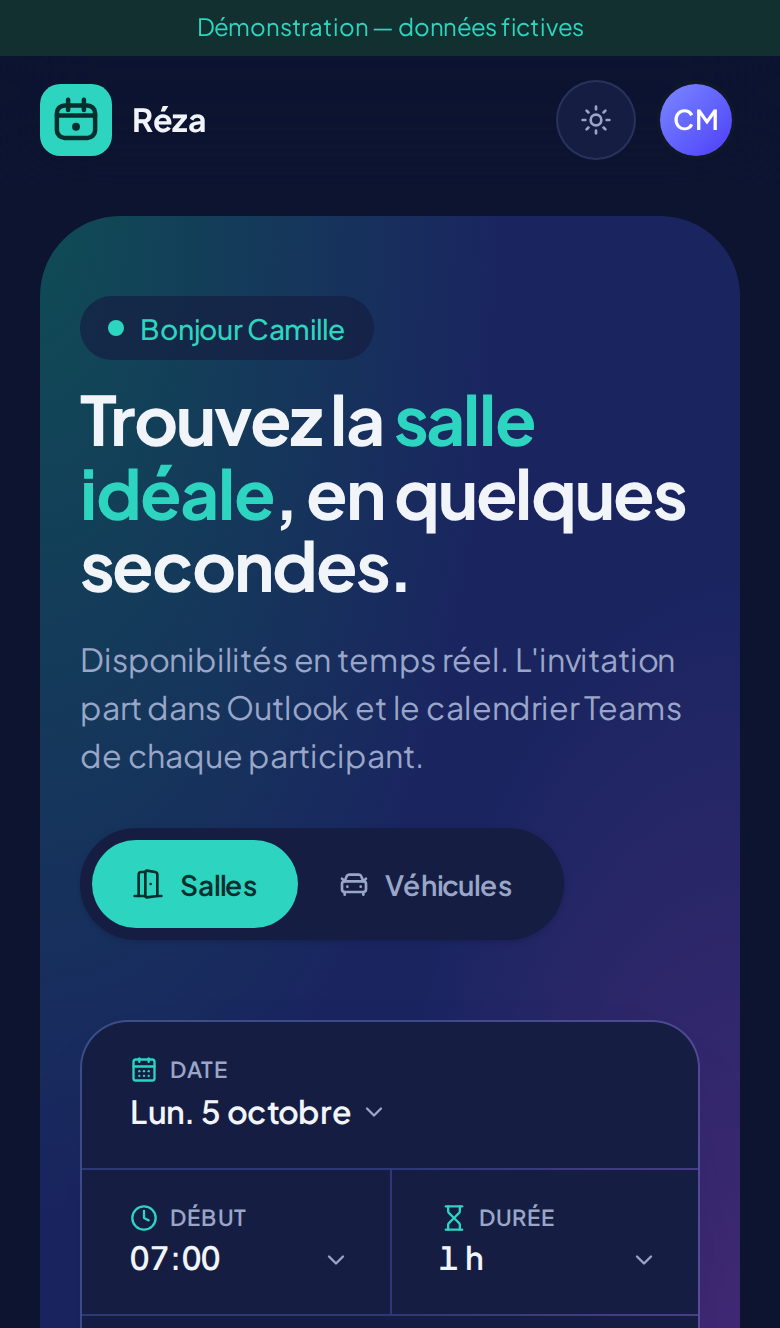
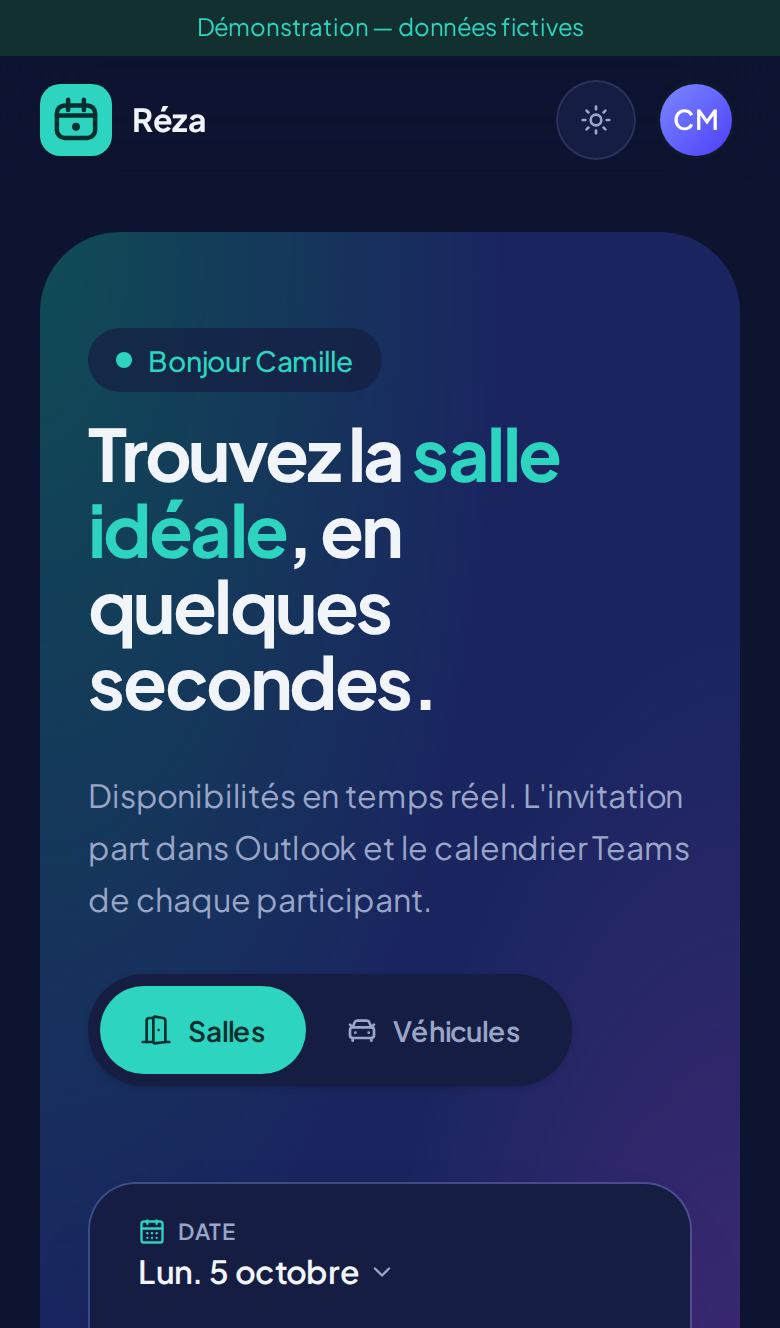
Mise en page plus aérée : grandes cartes sur deux colonnes, espacements généreux, menu épuré
Claude-Session: https://claude.ai/code/session_01WAkih85MUC11PcespeCzAg

Changed region(s): [[0.0923, 0.2161, 0.9231, 1.0], [0.0615, 0.1544, 0.9231, 0.2161], [0.9231, 0.1852, 0.9538, 0.2161]]

diff --git a/src/pages/BookPage.tsx b/src/pages/BookPage.tsx
@@ -22,9 +22,8 @@ export function BookPage() {
 
   return (
     <>
-      <section className="relative overflow-hidden hero rounded-[2.5rem] px-5 pt-10 pb-6 sm:px-12 sm:pt-16 sm:pb-12">
-        <HeroDecor />
-        <div className="relative flex flex-col gap-6 lg:flex-row lg:items-end lg:justify-between">
+      <section className="relative overflow-hidden hero rounded-[2.5rem] px-6 pt-12 pb-8 sm:px-14 sm:pt-20 sm:pb-14">
+                <div className="relative flex flex-col gap-6 lg:flex-row lg:items-end lg:justify-between">
           <div className="max-w-2xl">
             {me && (
               <p className="mb-3 inline-flex items-center gap-2 rounded-full bg-surface/70 px-3.5 py-1.5 text-sm font-medium text-brand-700">
@@ -32,7 +31,7 @@ export function BookPage() {
                 Bonjour {me.givenName ?? me.name.split(" ")[0]}
               </p>
             )}
-            <h1 className="text-[34px] leading-[1.08] font-bold tracking-[-0.03em] sm:text-[52px]">
+            <h1 className="text-[32px] leading-[1.08] font-bold tracking-[-0.035em] sm:text-[60px]">
               {kind === "room" ? (
                 <>
                   Trouvez la <span className="text-brand-600">salle idéale</span>,<br className="hidden sm:block" /> en quelques secondes.
@@ -43,32 +42,21 @@ export function BookPage() {
                 </>
               )}
             </h1>
-            <p className="mt-4 max-w-xl text-base text-muted sm:text-lg">
+            <p className="mt-6 max-w-xl text-base leading-relaxed text-muted sm:text-lg">
               Disponibilités en temps réel. L'invitation part dans Outlook et le calendrier Teams de chaque participant.
             </p>
           </div>
           <KindToggle value={kind} onChange={setKind} />
         </div>
-        <div className="relative mt-10">
+        <div className="relative mt-12 sm:mt-16">
           <SearchBar />
         </div>
       </section>
-      <div className="mt-8">
+      <div className="mt-14">
         <FilterChips resources={resources} onlyFree={onlyFree} setOnlyFree={setOnlyFree} />
       </div>
       <Results onlyFree={onlyFree} resetOnlyFree={() => setOnlyFree(false)} />
     </>
-  );
-}
-
-/** Formes douces en arrière-plan du bandeau d'accueil. */
-function HeroDecor() {
-  return (
-    <svg className="pointer-events-none absolute -top-24 -right-24 hidden h-[420px] sm:block w-[420px] text-brand-500 opacity-[0.14]" viewBox="0 0 200 200" aria-hidden>
-      <circle cx="100" cy="100" r="96" fill="none" stroke="currentColor" strokeWidth="1" />
-      <circle cx="100" cy="100" r="70" fill="none" stroke="currentColor" strokeWidth="1" />
-      <circle cx="100" cy="100" r="44" fill="currentColor" />
-    </svg>
   );
 }
 
@@ -105,10 +93,10 @@ function Results({ onlyFree, resetOnlyFree }: { onlyFree: boolean; resetOnlyFree
   if (error) return <ErrorState message={error instanceof Error ? error.message : String(error)} />;
 
   return (
-    <section className="mt-10 min-w-0 space-y-8">
+    <section className="mt-16 min-w-0 space-y-10">
       <div className="flex items-baseline justify-between gap-4">
         <div>
-          <h2 className="text-2xl font-bold tracking-tight">
+          <h2 className="text-[28px] font-bold tracking-tight">
             {availability ? (
               <>
                 {freeCount} {freeCount > 1 ? label.many : label.one} disponible{freeCount > 1 ? "s" : ""}
@@ -118,7 +106,7 @@ function Results({ onlyFree, resetOnlyFree }: { onlyFree: boolean; resetOnlyFree
               <span className="text-muted">Recherche des disponibilités…</span>
             )}
           </h2>
-          <p className="mt-0.5 text-sm text-muted tabular-nums">
+          <p className="mt-2 text-[15px] text-muted tabular-nums">
             {fmtLongDate(start)} · {fmtTime(start)} – {fmtTime(end)} · {fmtDuration(minutes)}
           </p>
         </div>
@@ -135,8 +123,8 @@ function Results({ onlyFree, resetOnlyFree }: { onlyFree: boolean; resetOnlyFree
       )}
 
       {isLoading ? (
-        <div className="grid gap-7 sm:grid-cols-2 xl:grid-cols-3">
-          {Array.from({ length: 6 }, (_, i) => (
+        <div className="grid gap-10 md:grid-cols-2">
+          {Array.from({ length: 4 }, (_, i) => (
             <ResourceCardSkeleton key={i} />
           ))}
         </div>
@@ -152,7 +140,7 @@ function Results({ onlyFree, resetOnlyFree }: { onlyFree: boolean; resetOnlyFree
         />
       ) : (
         <LayoutGroup>
-          <motion.div layout className="grid gap-7 sm:grid-cols-2 xl:grid-cols-3">
+          <motion.div layout className="grid gap-10 md:grid-cols-2">
             <AnimatePresence initial={false} mode="popLayout">
               {items.map(({ resource, state }, index) => (
                 <ResourceCard

diff --git a/src/components/ResourceCard.tsx b/src/components/ResourceCard.tsx
@@ -33,26 +33,25 @@ export function ResourceCard({ resource, state, busy, start, end, past, onBook }
       animate={{ opacity: 1, y: 0 }}
       exit={{ opacity: 0 }}
       transition={{ duration: 0.25, ease: [0.2, 0.8, 0.2, 1] }}
-      className="group flex flex-col rounded-[2rem] border border-line bg-surface p-3 pb-5 transition-[transform,box-shadow] duration-300 hover:-translate-y-1 hover:shadow-[0_24px_50px_-28px_rgb(15_23_42/0.45)]"
+      className="group flex flex-col rounded-[2rem] border border-line bg-surface p-4 pb-7 transition-[transform,box-shadow] duration-300 hover:-translate-y-1 hover:shadow-[0_24px_50px_-28px_rgb(15_23_42/0.45)]"
     >
       <div className="relative overflow-hidden rounded-[1.5rem]">
         <ResourceArt
           resource={resource}
-          className={cn("aspect-[16/10] transition-transform duration-500 group-hover:scale-[1.02]", dimmed && "opacity-50 saturate-50")}
+          className={cn("aspect-[16/9] transition-transform duration-500 group-hover:scale-[1.02]", dimmed && "opacity-50 saturate-50")}
         />
-        <span className="absolute top-3 left-3">
+        <span className="absolute top-4 left-4">
           <Status state={state} feminine={resource.kind === "room"} />
         </span>
       </div>
 
-      <div className="mt-5 flex items-start justify-between gap-3 px-2">
+      <div className="mt-7 flex items-start justify-between gap-4 px-3">
         <div className="min-w-0">
-          <h3 className="truncate text-lg font-bold tracking-tight">{resource.name}</h3>
-          <p className="mt-0.5 truncate text-sm text-muted">{[...meta, capacity].filter(Boolean).join(" · ")}</p>
+          <h3 className="truncate text-[22px] font-bold tracking-tight">{resource.name}</h3>
+          <p className="mt-1.5 truncate text-[15px] text-muted">{[...meta, capacity].filter(Boolean).join(" · ")}</p>
         </div>
         {state.status === "busy" ? (
           <Button
-            size="sm"
             variant="secondary"
             disabled={!state.nextFree || past}
             onClick={() => state.nextFree && onBook(state.nextFree)}
@@ -61,18 +60,18 @@ export function ResourceCard({ resource, state, busy, start, end, past, onBook }
             {state.nextFree ? `À ${fmtTime(state.nextFree)}` : "Complet"}
           </Button>
         ) : (
-          <Button size="sm" disabled={!free || past} onClick={() => onBook()}>
+          <Button disabled={!free || past} onClick={() => onBook()}>
             {past ? "Passé" : "Réserver"}
           </Button>
         )}
       </div>
 
       {resource.features.length > 0 && (
-        <p className="mt-1.5 truncate px-2 text-xs text-muted">{resource.features.map((f) => FEATURES[f].label).join(" · ")}</p>
+        <p className="mt-2 truncate px-3 text-sm text-muted">{resource.features.map((f) => FEATURES[f].label).join(" · ")}</p>
       )}
 
       {sameDay && (
-        <div className="mt-4 px-2">
+        <div className="mt-6 px-3">
           <DayTimeline day={startOfDay(start)} busy={busy} selection={{ start, end, ok: free && !past }} />
         </div>
       )}
@@ -110,8 +109,8 @@ function Status({ state, feminine }: { state: ResourceState; feminine: boolean }
 
 export function ResourceCardSkeleton() {
   return (
-    <div className="rounded-[2rem] border border-line bg-surface p-3 pb-5">
-      <div className="skeleton aspect-[16/10] rounded-[1.5rem]" />
+    <div className="rounded-[2rem] border border-line bg-surface p-4 pb-7">
+      <div className="skeleton aspect-[16/9] rounded-[1.5rem]" />
       <div className="skeleton mt-4 h-4 w-32" />
       <div className="skeleton mt-2 h-3 w-48" />
     </div>

diff --git a/src/components/AppShell.tsx b/src/components/AppShell.tsx
@@ -66,8 +66,8 @@ export function AppShell({ children, theme, onToggleTheme, onSignOut, embedded }
             </span>
           </a>
 
-          <p className="mt-10 mb-3 px-3 text-[11px] font-semibold tracking-[0.12em] text-muted uppercase">Menu</p>
-          <nav className="space-y-1.5" aria-label="Navigation principale">
+          <p className="mt-14 mb-4 px-3 text-[11px] font-semibold tracking-[0.12em] text-muted uppercase">Menu</p>
+          <nav className="space-y-2.5" aria-label="Navigation principale">
             {items.map(({ view: v, label, hint, icon: Icon, tone }) => {
               const active = view === v;
               return (
@@ -105,7 +105,7 @@ export function AppShell({ children, theme, onToggleTheme, onSignOut, embedded }
           {next && (
             <a
               href={hrefFor("bookings")}
-              className="mt-8 block rounded-2xl bg-[var(--hero)] p-4 transition-transform hover:-translate-y-0.5"
+              className="mt-10 block rounded-2xl bg-[var(--hero)] p-5 transition-transform hover:-translate-y-0.5"
             >
               <p className="text-[11px] font-semibold tracking-[0.12em] text-brand-700 uppercase">Prochaine réservation</p>
               <p className="mt-2 truncate font-semibold">{next.subject}</p>
@@ -118,19 +118,17 @@ export function AppShell({ children, theme, onToggleTheme, onSignOut, embedded }
 
           <div className="mt-auto space-y-3">
             {config.demo && (
-              <div className="rounded-2xl border border-dashed border-line p-3.5 text-xs text-muted">
-                <p className="font-semibold text-brand-700">Mode démonstration</p>
-                <p className="mt-1">Données fictives, aucune invitation n'est envoyée.</p>
-                <button
-                  onClick={() => {
-                    resetDemo();
-                    window.location.reload();
-                  }}
-                  className="mt-2 inline-flex items-center gap-1 font-medium text-brand-700 hover:underline"
-                >
-                  <RotateCcw className="size-3" /> Réinitialiser
-                </button>
-              </div>
+              <button
+                onClick={() => {
+                  resetDemo();
+                  window.location.reload();
+                }}
+                className="flex w-full items-center gap-2 px-3 text-xs text-muted hover:text-brand-700"
+                title="Données fictives, aucune invitation n'est envoyée"
+              >
+                <span className="size-1.5 rounded-full bg-amber-500" /> Mode démo
+                <RotateCcw className="ml-auto size-3" />
+              </button>
             )}
             <div className="flex items-center gap-2 border-t border-line pt-4">
               <UserMenu onSignOut={embedded ? undefined : onSignOut} />
@@ -157,7 +155,7 @@ export function AppShell({ children, theme, onToggleTheme, onSignOut, embedded }
         </div>
       </header>
 
-      <main className="mx-auto w-full max-w-[1200px] px-5 pt-4 pb-32 sm:px-8 lg:px-12 lg:pt-10 lg:pb-16">{children}</main>
+      <main className="mx-auto w-full max-w-[1180px] px-5 pt-6 pb-36 sm:px-10 lg:px-16 lg:pt-12 lg:pb-24">{children}</main>
 
       {/* Navigation mobile */}
       <nav

diff --git a/src/components/ui/PageHeader.tsx b/src/components/ui/PageHeader.tsx
@@ -16,11 +16,7 @@ export function PageHeader({
   icon?: LucideIcon;
 }) {
   return (
-    <header className="relative mb-10 overflow-hidden hero rounded-[2.5rem] px-6 py-9 sm:px-12 sm:py-12">
-      <svg className="pointer-events-none absolute -top-20 -right-20 hidden size-72 sm:block text-brand-500 opacity-[0.12]" viewBox="0 0 200 200" aria-hidden>
-        <circle cx="100" cy="100" r="96" fill="none" stroke="currentColor" strokeWidth="1.2" />
-        <circle cx="100" cy="100" r="60" fill="currentColor" />
-      </svg>
+    <header className="relative mb-14 overflow-hidden hero rounded-[2.5rem] px-6 py-10 sm:px-14 sm:py-16">
       <div className="relative flex flex-col gap-6 sm:flex-row sm:items-end sm:justify-between">
         <div className="flex min-w-0 items-start gap-5">
           {Icon && (
@@ -30,8 +26,8 @@ export function PageHeader({
           )}
           <div className="min-w-0">
             {eyebrow && <p className="mb-2 text-sm font-medium text-brand-700">{eyebrow}</p>}
-            <h1 className="text-3xl font-bold tracking-[-0.03em] sm:text-[40px] sm:leading-[1.1]">{title}</h1>
-            {subtitle && <p className="mt-2.5 max-w-xl text-[15px] text-muted">{subtitle}</p>}
+            <h1 className="text-3xl font-bold tracking-[-0.03em] sm:text-[46px] sm:leading-[1.08]">{title}</h1>
+            {subtitle && <p className="mt-4 max-w-xl text-base leading-relaxed text-muted">{subtitle}</p>}
           </div>
         </div>
         {actions && <div className="flex shrink-0 flex-wrap items-center gap-2">{actions}</div>}
